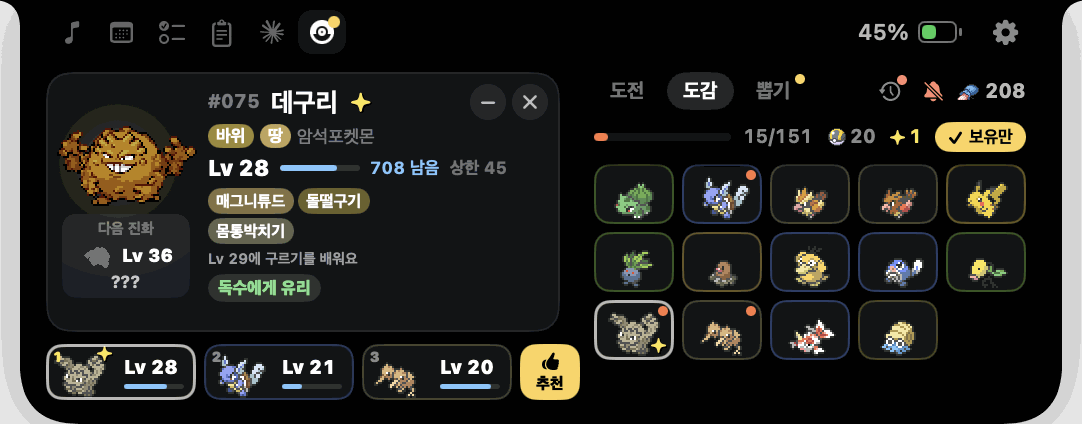
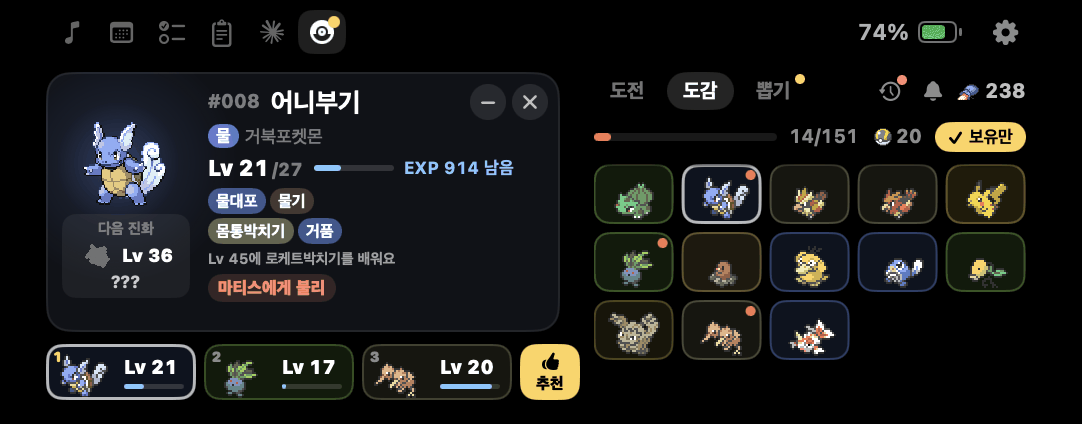
Show the level as Lv 5/16 and label the experience left
The card showed two bare numbers side by side, the experience left and the level cap, and
they read alike. The cap now sits after the level, and the experience says EXP.

diff --git a/pokove/Notch/Expanded/Adventure/AdventurePageView.swift b/pokove/Notch/Expanded/Adventure/AdventurePageView.swift
@@ -1081,9 +1081,16 @@ private struct OwnedSummary: View {
         let atCap = member.level >= cap
         VStack(alignment: .leading, spacing: 3) {
             HStack(spacing: 5) {
-                Text("Lv \(member.level)")
-                    .font(.system(size: 11, weight: .heavy).monospacedDigit())
-                    .foregroundStyle(.white)
+                // "Lv 5/16": the level out of the most it can reach before the next badge.
+                HStack(alignment: .firstTextBaseline, spacing: 1) {
+                    Text("Lv \(member.level)")
+                        .font(.system(size: 11, weight: .heavy).monospacedDigit())
+                        .foregroundStyle(.white)
+                    Text(verbatim: "/\(cap)")
+                        .font(.system(size: 9, weight: .bold).monospacedDigit())
+                        .foregroundStyle(atCap ? Color(hex: 0xFFD35A) : .white.opacity(0.45))
+                }
+                .help(GuideText.cap(cap))
                 ZStack(alignment: .leading) {
                     Capsule().fill(.white.opacity(0.14))
                     Capsule().fill(Color(hex: 0x7FC8FF)).frame(width: 40 * (atCap ? 1 : member.levelProgress))
@@ -1097,9 +1104,6 @@ private struct OwnedSummary: View {
                         .lineLimit(1)
                         .fixedSize()
                 }
-                Text(GuideText.cap(cap))
-                    .font(.system(size: 8.5, weight: .bold).monospacedDigit())
-                    .foregroundStyle(atCap ? Color(hex: 0xFFD35A) : .white.opacity(0.4))
             }
             MoveChips(moves: adventure.moves(of: member))
             if let next = nextLine(adventure: adventure, atCap: atCap) {

diff --git a/pokove/Adventure/BattleText.swift b/pokove/Adventure/BattleText.swift
@@ -233,14 +233,14 @@ nonisolated enum GuideText {
         return parts.joined(separator: " · ")
     }
 
-    static func xpLeft(_ amount: Int) -> String { korean ? "\(amount) 남음" : "\(amount) to go" }
+    static func xpLeft(_ amount: Int) -> String { korean ? "EXP \(amount) 남음" : "\(amount) EXP to go" }
     static func xpLeftLong(_ amount: Int) -> String { korean ? "다음 레벨까지 EXP \(amount)" : "EXP \(amount) to the next level" }
     static func xpGained(_ amount: Int) -> String { "EXP +\(amount)" }
 
     // The Pokédex.
     static var ownedOnly: String { korean ? "보유만" : "Owned" }
     static func nextDexReward(_ count: Int) -> String { korean ? "\(count)종을 모으면 울트라볼" : "An Ultra Ball at \(count)" }
-    static func cap(_ level: Int) -> String { korean ? "상한 \(level)" : "Cap \(level)" }
+    static func cap(_ level: Int) -> String { korean ? "레벨 상한 \(level)" : "Level cap \(level)" }
     static func learns(_ move: String, at level: Int) -> String {
         korean ? "Lv \(level)에 \(move.objectParticle) 배워요" : "Learns \(move) at Lv \(level)"
     }
